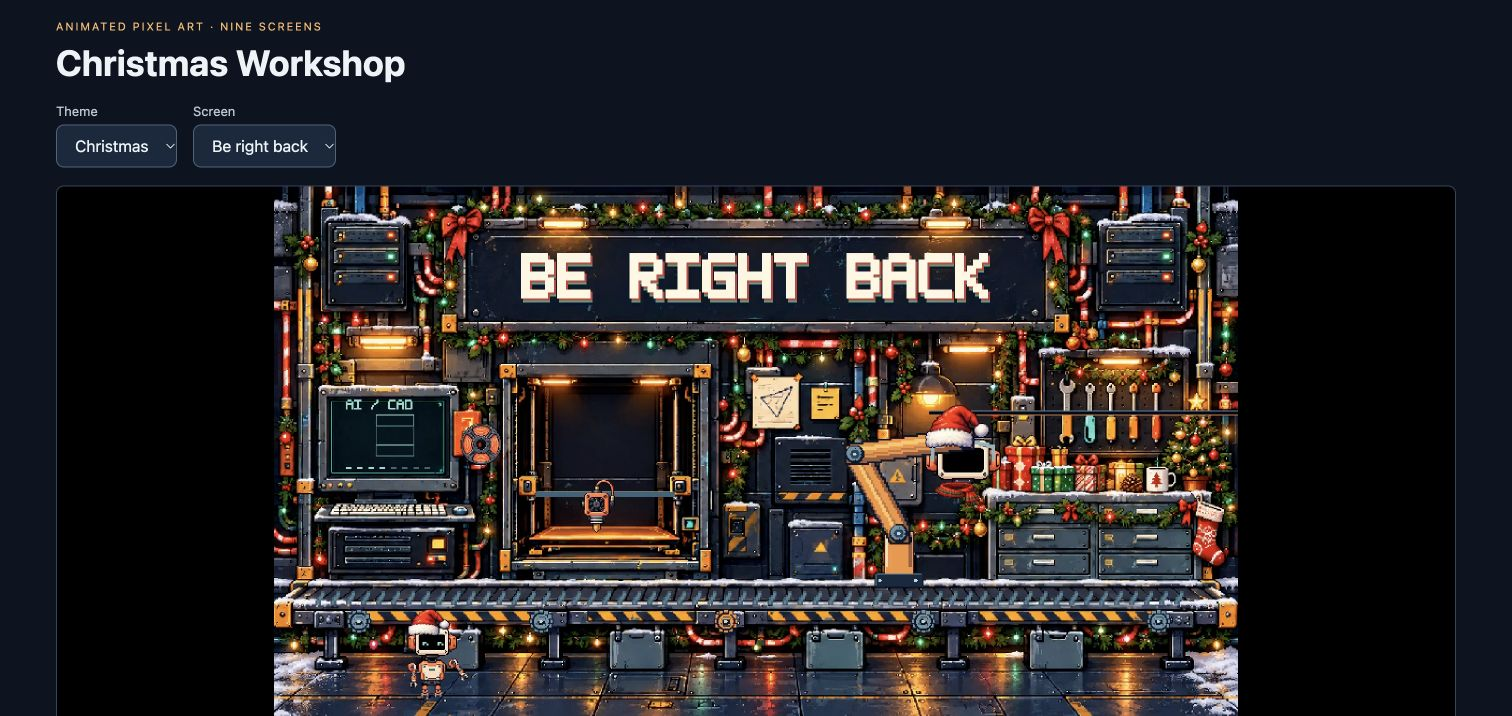
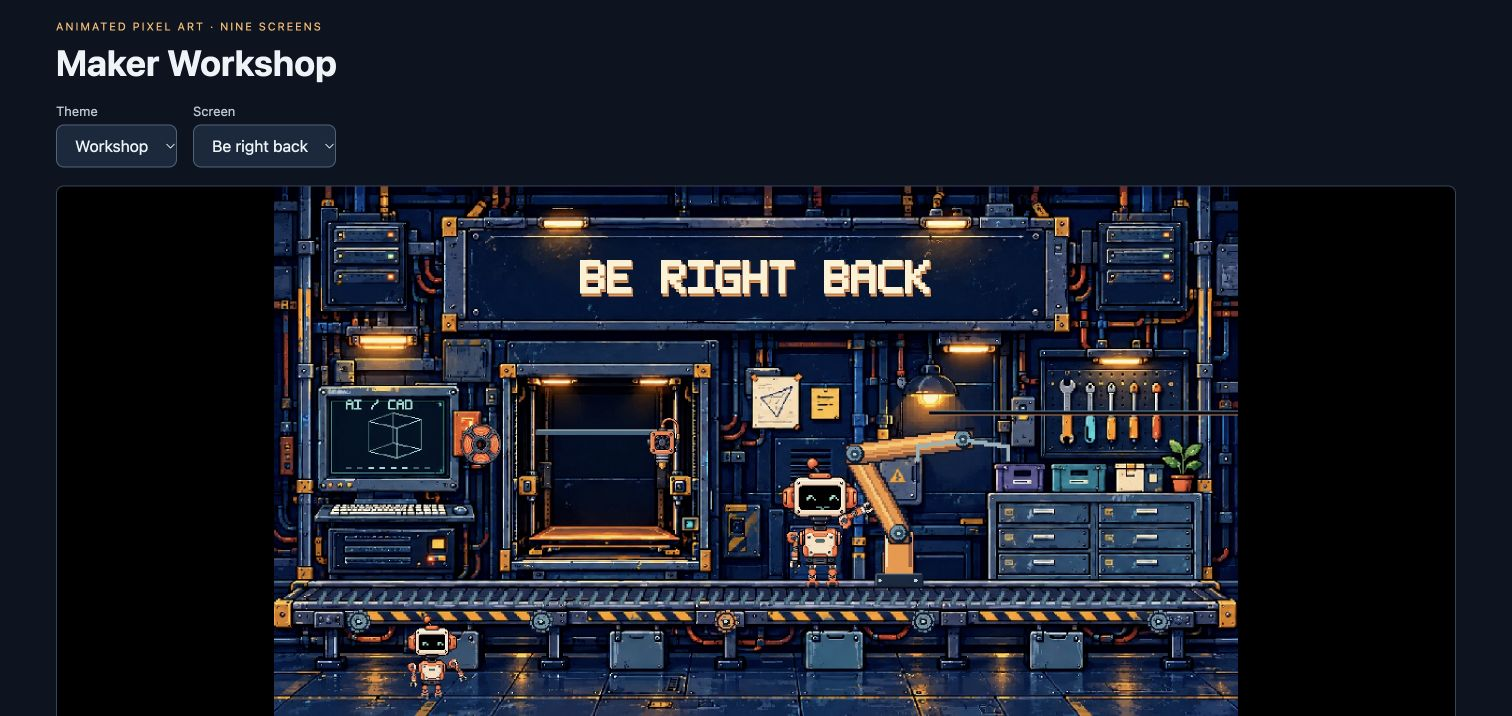
Keep workshop endings continuous and align letterboxed signs

Changed region(s): [[0.1554, 0.2458, 0.8393, 1.0], [0.0311, 0.0615, 0.2798, 0.1229], [0.0311, 0.1844, 0.0933, 0.2151]]

diff --git a/internal/relay/workshop_theme_test.go b/internal/relay/workshop_theme_test.go
@@ -127,6 +127,12 @@ func TestWorkshopGeneratedEndingHoldsPastMasterAndFinishesBlack(t *testing.T) {
 	d.Scenes[0].FontSize = 0
 	fade := 1.0
 	d.EndingFadeSeconds = &fade
+	// An overlapping text change must not restart the one-shot backdrop.
+	next := d.Scenes[0]
+	next.ID, next.DurationSeconds = "follow-up", 14.4
+	d.Scenes[0].DurationSeconds = 2
+	d.Scenes[0].Transition = &mediaauthor.Transition{Kind: "crossfade", DurationSeconds: .4}
+	d.Scenes = append(d.Scenes, next)
 	raw, _ := json.Marshal(d)
 	saved := dashboardRequest(s, "PUT", "/api/generator/designs/"+d.ID, string(raw))
 	if saved.Code != 200 {
@@ -137,6 +143,20 @@ func TestWorkshopGeneratedEndingHoldsPastMasterAndFinishesBlack(t *testing.T) {
 	expected, err := png.Decode(expectedResponse.Body)
 	if err != nil {
 		t.Fatal(expectedResponse.Code, err)
+	}
+	globalFrame := dashboardRequest(s, "POST", "/api/generator/preview?frame=65", saved.Body.String())
+	nextScene := dashboardRequest(s, "POST", "/api/generator/preview?scene=1&frame=25", saved.Body.String())
+	if globalFrame.Code != 200 || !bytes.Equal(globalFrame.Body.Bytes(), nextScene.Body.Bytes()) {
+		t.Fatal("crossfade scene preview did not use composition timing")
+	}
+	resetFrame := dashboardRequest(s, "POST", "/api/generator/preview?frame=25", saved.Body.String())
+	resetExpected, err := png.Decode(bytes.NewReader(resetFrame.Body.Bytes()))
+	if err != nil {
+		t.Fatal(resetFrame.Code, err)
+	}
+	earlyExpected, err := png.Decode(bytes.NewReader(globalFrame.Body.Bytes()))
+	if err != nil {
+		t.Fatal(err)
 	}
 	generatorServe(t, s)
 	job := waitGeneratorJob(t, s, submitGenerator(t, s, d).ID)
@@ -149,6 +169,13 @@ func TestWorkshopGeneratedEndingHoldsPastMasterAndFinishesBlack(t *testing.T) {
 	}
 	path := filepath.Join(t.TempDir(), "ending.mp4")
 	os.WriteFile(path, media.Body.Bytes(), 0600)
+	actualEarly := workshopDecodedFrame(t, path, 65)
+	alignedDelta := scenePixelDifference(actualEarly, earlyExpected)
+	resetDelta := scenePixelDifference(actualEarly, resetExpected)
+	if alignedDelta >= resetDelta {
+		t.Fatalf("ending animation restarted at crossfade: aligned %f, reset %f", alignedDelta, resetDelta)
+	}
+
 	if delta := scenePixelDifference(workshopDecodedFrame(t, path, 325), expected); delta > 8 {
 		t.Fatalf("ending restarted instead of holding: %f", delta)
 	}
@@ -173,7 +200,20 @@ func TestWorkshopEndingHoldsBehindRepeatingInsetVideo(t *testing.T) {
 	}
 	var d mediaauthor.Design
 	json.Unmarshal(created.Body.Bytes(), &d)
-	preview := dashboardRequest(s, "POST", "/api/generator/preview?frame=325", created.Body.String())
+	// The goodbye happens once, before the later inset scene starts.
+	d.Scenes = append([]mediaauthor.Scene{{ID: "thanks", Layout: "title", Text: "THANK YOU", DurationSeconds: 8}}, d.Scenes...)
+	raw, _ := json.Marshal(d)
+	saved := dashboardRequest(s, "PUT", "/api/generator/designs/"+d.ID, string(raw))
+	if saved.Code != 200 {
+		t.Fatal(saved.Code, saved.Body.String())
+	}
+	json.Unmarshal(saved.Body.Bytes(), &d)
+	firstInset := dashboardRequest(s, "POST", "/api/generator/preview?scene=1&frame=0", saved.Body.String())
+	settledInset := dashboardRequest(s, "POST", "/api/generator/preview?frame=200", created.Body.String())
+	if firstInset.Code != 200 || !bytes.Equal(firstInset.Body.Bytes(), settledInset.Body.Bytes()) {
+		t.Fatal("ending preview restarted its goodbye at the next scene", firstInset.Code)
+	}
+	preview := dashboardRequest(s, "POST", "/api/generator/preview?scene=1&frame=125", saved.Body.String())
 	expected, err := png.Decode(preview.Body)
 	if err != nil {
 		t.Fatal(preview.Code, err)

diff --git a/internal/relay/animated_artwork.go b/internal/relay/animated_artwork.go
@@ -42,6 +42,12 @@ type preparedArtwork struct {
 	holdEnding   bool
 }
 
+// Each ending scene advances the same one-shot master on the composition timeline.
+// Clamp seeks to its final frame, then hold within the caller's output frame cap.
+func (art preparedArtwork) endingTailFilter(fps, startFrame int) string {
+	return fmt.Sprintf(",tpad=stop_mode=clone:stop_duration=3600,trim=start_frame=%d,setpts=PTS-STARTPTS", min(startFrame, art.seconds*fps-1))
+}
+
 func themeArtwork(id string) (preparedArtwork, bool) {
 	return themeArtworkForStage(id, "brb")
 }
@@ -117,7 +123,7 @@ func artworkPreviewFrame(ctx context.Context, p config.BRBProfile, frame int, st
 
 // artworkOverlayArgs composes transparent content over the immutable artwork loop.
 // It only writes into the caller-owned, bounded preparation workspace.
-func artworkOverlayArgs(dir, foreground string, p config.BRBProfile, style mediaauthor.Style, stage string) ([]string, error) {
+func artworkOverlayArgs(dir, foreground string, p config.BRBProfile, style mediaauthor.Style, stage string, startFrame int) ([]string, error) {
 	art, ok := themeArtworkForStage(style.Artwork, stage)
 	if !ok {
 		return nil, errors.New("The selected artwork is unavailable.")
@@ -129,7 +135,7 @@ func artworkOverlayArgs(dir, foreground string, p config.BRBProfile, style media
 	backdrop := artworkBackdropFilter(p, style)
 	args := []string{"-threads", "2", "-loop", "1", "-framerate", strconv.Itoa(p.FPS), "-i", foreground, "-threads", "2"}
 	if art.holdEnding {
-		backdrop += ",tpad=stop_mode=clone:stop_duration=3600"
+		backdrop += art.endingTailFilter(p.FPS, startFrame)
 	} else {
 		args = append(args, "-stream_loop", "-1")
 	}
@@ -139,7 +145,7 @@ func artworkOverlayArgs(dir, foreground string, p config.BRBProfile, style media
 
 // Normalize only the clip range first, then repeat it over the full background
 // cycle. Repeating a one-second inset must not restart the sixteen-second sky.
-func (s *Server) renderArtworkVideoSegment(ctx context.Context, scene mediaauthor.Scene, p config.BRBProfile, dst, dir string, budget int64, progress func(float64), style mediaauthor.Style, inputs mediaauthor.RenderInputs, stage string) error {
+func (s *Server) renderArtworkVideoSegment(ctx context.Context, scene mediaauthor.Scene, p config.BRBProfile, dst, dir string, budget int64, progress func(float64), style mediaauthor.Style, inputs mediaauthor.RenderInputs, stage string, startFrame int) error {
 	source, meta, err := s.openVideoAsset(scene)
 	if err != nil {
 		return err
@@ -199,7 +205,7 @@ func (s *Server) renderArtworkVideoSegment(ctx context.Context, scene mediaautho
 	args = append(generatorBaseArgs(), "-threads", "2")
 	backdrop := artworkBackdropFilter(p, style)
 	if art.holdEnding {
-		backdrop += ",tpad=stop_mode=clone:stop_duration=3600"
+		backdrop += art.endingTailFilter(p.FPS, startFrame)
 	} else {
 		args = append(args, "-stream_loop", "-1")
 	}

diff --git a/internal/mediaauthor/render.go b/internal/mediaauthor/render.go
@@ -117,10 +117,16 @@ func layoutSceneStyled(scene Scene, width, height int, style Style) (result scen
 	if math.IsNaN(rw) || math.IsInf(rw, 0) || math.IsNaN(rh) || math.IsInf(rh, 0) || rw < 30 || rw > 90 || rh < 12 || rh > 90 {
 		return fail("content_region", "Content width must be 30–90% and height 12–90% (blank inherits the theme).")
 	}
-	regionWidth, regionHeight := int(float64(width)*rw/100), int(float64(height)*rh/100)
+	// Workshop lettering follows the contained 16:9 sign, including letterboxing.
+	contentWidth, contentHeight := width, height
+	if IsWorkshopArtwork(style.Artwork) && scene.Layout != "media" {
+		scale := math.Min(float64(width)/16, float64(height)/9)
+		contentWidth, contentHeight = int(16*scale), int(9*scale)
+	}
+	regionWidth, regionHeight := int(float64(contentWidth)*rw/100), int(float64(contentHeight)*rh/100)
 	offset := 0
 	if scene.Layout != "media" {
-		offset = int(float64(height) * style.ContentOffsetYPercent / 100)
+		offset = int(float64(contentHeight) * style.ContentOffsetYPercent / 100)
 	}
 	result.region = image.Rect((width-regionWidth)/2, (height-regionHeight)/2+offset, (width+regionWidth)/2, (height+regionHeight)/2+offset)
 	if !result.region.In(image.Rect(0, 0, width, height)) {
@@ -167,9 +173,9 @@ func layoutSceneStyled(scene Scene, width, height int, style Style) (result scen
 	var face font.Face
 	var err error
 	if scene.Font == "arcade-pixel" {
-		face = newPixelFace(size * float64(height) / 1080)
+		face = newPixelFace(size * float64(contentHeight) / 1080)
 	} else {
-		face, err = opentype.NewFace(f, &opentype.FaceOptions{Size: size * float64(height) / 1080, DPI: 72, Hinting: font.HintingNone})
+		face, err = opentype.NewFace(f, &opentype.FaceOptions{Size: size * float64(contentHeight) / 1080, DPI: 72, Hinting: font.HintingNone})
 	}
 	if err != nil {
 		return fail("font", "Cannot load the selected font.")

diff --git a/internal/relay/generator_render.go b/internal/relay/generator_render.go
@@ -97,7 +97,7 @@ func (s *Server) renderGenerator(ctx context.Context, j *GenerationJob, progress
 			progress(int(min(60, max(0, (float64(completedFrames)+seconds*float64(p.FPS))/float64(totalFrames)*60))))
 		}
 		if scene.IsVideo() {
-			if err := s.renderVideoSegment(ctx, scene, p, segment, dir, maxGeneratorOutputBytes-segmentBytes, sceneProgress, theme.Style, inputs, j.Design.Stage); err != nil {
+			if err := s.renderVideoSegment(ctx, scene, p, segment, dir, maxGeneratorOutputBytes-segmentBytes, sceneProgress, theme.Style, inputs, j.Design.Stage, plan.Scenes[i].Start); err != nil {
 				return "", err
 			}
 		} else {
@@ -108,7 +108,7 @@ func (s *Server) renderGenerator(ctx context.Context, j *GenerationJob, progress
 				"-protocol_whitelist", "file,pipe", "-threads", "2", "-loop", "1", "-framerate", strconv.Itoa(p.FPS), "-i", still,
 			}
 			if animatedArtwork(theme.Style) {
-				artworkArgs, err := artworkOverlayArgs(dir, still, p, theme.Style, j.Design.Stage)
+				artworkArgs, err := artworkOverlayArgs(dir, still, p, theme.Style, j.Design.Stage, plan.Scenes[i].Start)
 				if err != nil {
 					return "", err
 				}

diff --git a/internal/mediaauthor/workshop_test.go b/internal/mediaauthor/workshop_test.go
@@ -97,3 +97,26 @@ func TestWorkshopFrozenBackdropKeepsHardPixelEdges(t *testing.T) {
 		}
 	}
 }
+
+func TestWorkshopSignTracksContainedArtwork(t *testing.T) {
+	style := WorkshopTheme("maker-workshop").Style
+	scene := Scene{Layout: "title", Text: "STARTING SOON"}
+	reference, _, message := layoutSceneStyled(scene, 640, 360, style)
+	if message != "" {
+		t.Fatal(message)
+	}
+	defer reference.face.Close()
+	for _, profile := range []struct {
+		width, height int
+		offset        image.Point
+	}{{640, 480, image.Pt(0, 60)}, {960, 360, image.Pt(160, 0)}} {
+		got, _, message := layoutSceneStyled(scene, profile.width, profile.height, style)
+		if message != "" {
+			t.Fatal(message)
+		}
+		defer got.face.Close()
+		if got.region != reference.region.Add(profile.offset) || got.face.Metrics() != reference.face.Metrics() {
+			t.Fatalf("sign moved away from contained artwork at %dx%d: %v, want %v", profile.width, profile.height, got.region, reference.region.Add(profile.offset))
+		}
+	}
+}

diff --git a/internal/relay/generator_video_render.go b/internal/relay/generator_video_render.go
@@ -27,9 +27,9 @@ func sampleBoundary(frames, sampleRate, fps int) int64 {
 }
 
 // The caller already holds preparation admission. No helper reacquires it.
-func (s *Server) renderVideoSegment(ctx context.Context, scene mediaauthor.Scene, p config.BRBProfile, dst, dir string, budget int64, progress func(float64), style mediaauthor.Style, inputs mediaauthor.RenderInputs, stage string) error {
+func (s *Server) renderVideoSegment(ctx context.Context, scene mediaauthor.Scene, p config.BRBProfile, dst, dir string, budget int64, progress func(float64), style mediaauthor.Style, inputs mediaauthor.RenderInputs, stage string, startFrame int) error {
 	if animatedArtwork(style) {
-		return s.renderArtworkVideoSegment(ctx, scene, p, dst, dir, budget, progress, style, inputs, stage)
+		return s.renderArtworkVideoSegment(ctx, scene, p, dst, dir, budget, progress, style, inputs, stage, startFrame)
 	}
 	source, meta, err := s.openVideoAsset(scene)
 	if err != nil {

diff --git a/internal/relay/generator_http.go b/internal/relay/generator_http.go
@@ -245,7 +245,12 @@ func (s *Server) generatorPreviewHTTP(w http.ResponseWriter, r *http.Request) {
 		}
 	}
 	if animatedArtwork(theme.Style) {
-		inputs.Background, err = artworkPreviewFrame(r.Context(), profile, frame, theme.Style, draft.Stage)
+		artworkFrame := frame
+		if draft.Stage == "ending" && mediaauthor.IsWorkshopArtwork(theme.Style.Artwork) {
+			plan, _ := mediaauthor.PlanTiming(draft, profile.FPS)
+			artworkFrame += plan.Scenes[sceneIndex].Start
+		}
+		inputs.Background, err = artworkPreviewFrame(r.Context(), profile, artworkFrame, theme.Style, draft.Stage)
 		if err != nil {
 			http.Error(w, err.Error(), 422)
 			return

diff --git a/internal/relay/brb_theme.go b/internal/relay/brb_theme.go
@@ -142,7 +142,7 @@ func (s *Server) encodeBRBSettings(ctx context.Context, settings brbSettings, di
 	args := []string{"-filter_threads", "1", "-filter_complex_threads", "1", "-protocol_whitelist", "file,pipe", "-threads", "2", "-loop", "1", "-framerate", strconv.Itoa(p.FPS), "-i", filepath.Join(dir, "base.png")}
 	style := settings.Theme.Style
 	if animatedArtwork(style) {
-		args, err = artworkOverlayArgs(dir, filepath.Join(dir, "base.png"), p, style, "brb")
+		args, err = artworkOverlayArgs(dir, filepath.Join(dir, "base.png"), p, style, "brb", 0)
 		if err != nil {
 			return nil, err
 		}

diff --git a/artwork/maker-workshop/README.md b/artwork/maker-workshop/README.md
@@ -10,8 +10,9 @@ BRB builds, assembles and greets with a robot in a repeating 12-second cycle.
 Prestream opens on the welcoming mascot and cycles through the production line.
 Ending waves goodbye, parks the printer, stops the conveyor and settles the CAD
 screen. It holds its final pose for longer scenes; the existing design ending
-fade still finishes the output in black. Each generator scene starts its own
-stage master. Use 12-second multiples for uninterrupted prestream motion; the
+fade still finishes the output in black. Ending scenes share one continuous
+artwork timeline, including crossfades; the goodbye never restarts at a text
+change. Each prestream scene starts its own cycle. Use 12-second multiples for uninterrupted prestream motion; the
 included prestream starter uses three 12-second scenes. The ending starter uses
 two 12-second scenes and a final two-second fade.
 
@@ -19,7 +20,8 @@ Halloween includes witch hats, a floating ghost and haunted workshop decor.
 Christmas includes Santa hats, a scarf, moving parcels and festive workshop decor.
 The upper sign stays blank in the artwork: all headlines, lists and links are
 rendered by the app using the embedded pixel font. The default sign region is
-58% wide and 19% high, offset upward by 33%, with a smaller list font. Overflow
+58% wide and 19% high, offset upward by 33%, with a smaller list font. The sign and lettering follow the contained artwork
+on non-widescreen profiles. Overflow
 is validated; text is never silently truncated or shrunk. Long agendas should be
 split into more scenes. Existing themes and retained revisions remain unchanged.
 

diff --git a/README.md b/README.md
@@ -932,7 +932,9 @@ BRB and prestream use complete **12-second** cycles. The supplied prestream
 starter uses 12-second scenes; other durations or crossfades remain available.
 Ending holds its settled final frame if a scene exceeds the master duration, then
 the existing ending fade applies. An inset video can keep playing over that held
-background. Every scene starts its stage animation independently.
+background. Ending motion continues across scene changes on one timeline; BRB
+and prestream scenes start their own cycles. The editable sign follows the
+contained artwork on non-widescreen profiles.
 
 The nine masters are embedded and require only the existing FFmpeg runtime.
 Authoring uses Blender; production does not. Pixel artwork uses nearest-neighbor
